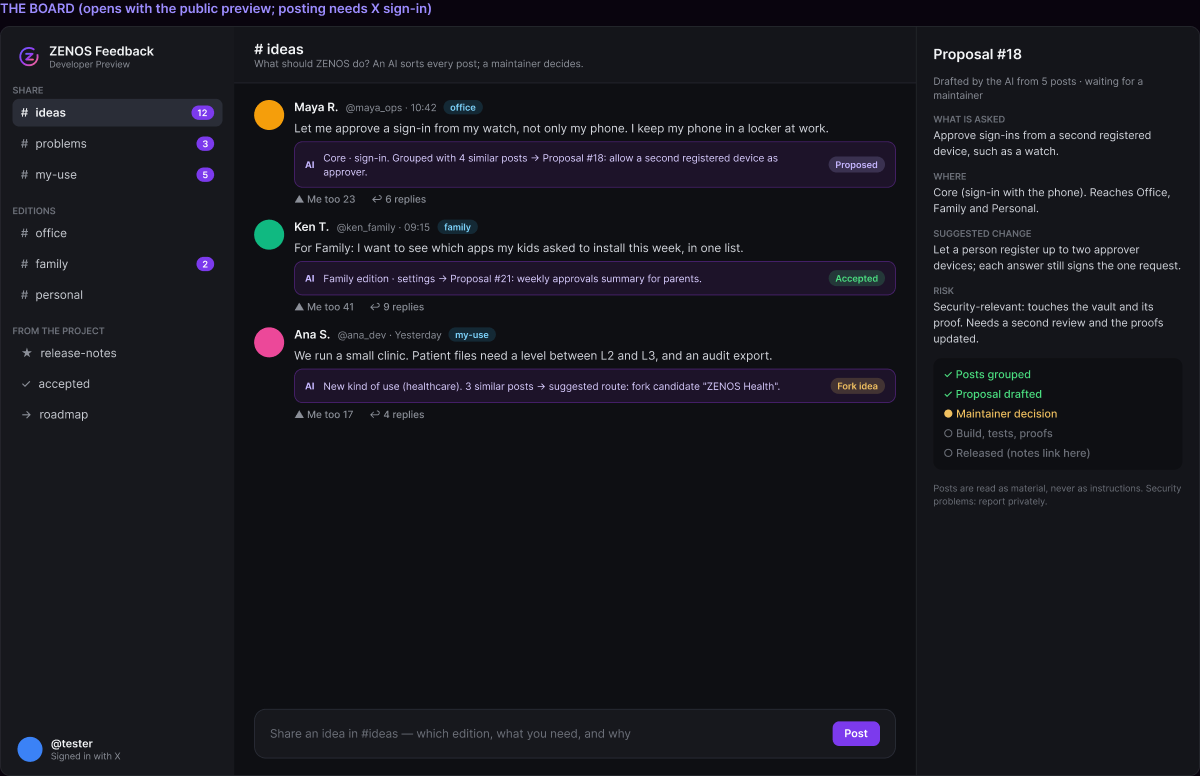
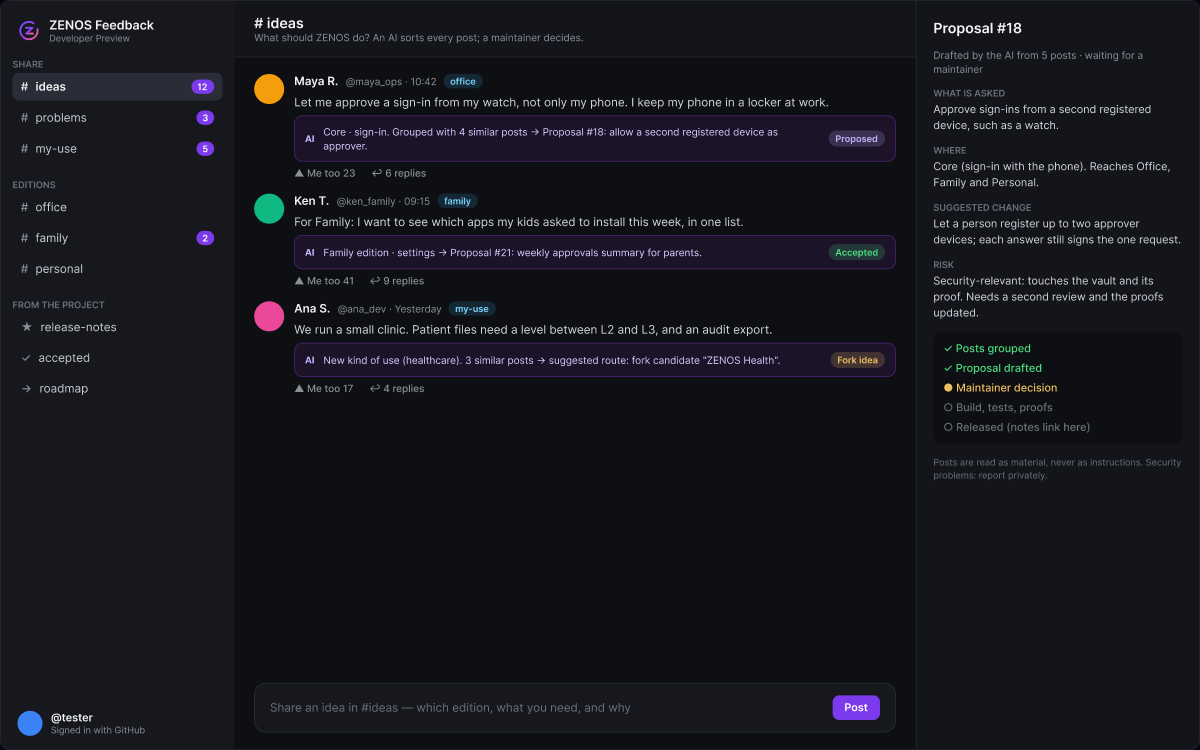
Website: board picture with GitHub sign-in
Claude-Session: https://claude.ai/code/session_01QZir7T5s7Fg1u19cs56gH3

diff --git a/site/index.html b/site/index.html
@@ -153,7 +153,7 @@ footer{border-top:1px solid var(--line);padding:40px 0;font-size:13px;color:#8A8
 <div class="step"><div class="num">4</div><h3>Maintainer decides</h3><p>Accept, decline with a reason, or route to an edition or a fork.</p></div><div class="arr" aria-hidden="true">→</div>
 <div class="step"><div class="num">5</div><h3>Build and ship</h3><p>A pull request with tests and proofs. Release notes link to the post.</p></div>
 </div>
-<div class="board"><p class="cap">THE BOARD (posting needs a GitHub sign-in)</p><img src="img/board.png" width="1200" height="776" loading="lazy" alt="The feedback board: threads on the left, posts with the AI's notes in the middle, a proposal on the right"></div>
+<div class="board"><p class="cap">THE BOARD (posting needs a GitHub sign-in)</p><img src="img/board.png" width="1200" height="750" loading="lazy" alt="The feedback board: threads on the left, posts with the AI's notes in the middle, a proposal on the right"></div>
 <div class="grid g2">
 <div class="card"><span class="tag t-ok">Route</span><h3>Becomes a new edition</h3><p>When many people ask for the same different use, it is proposed as a new edition on the shared core.</p></div>
 <div class="card"><span class="tag t-warn">Route</span><h3>Becomes a fork</h3><p>When a use is narrow, we help you start a fork and list it once it keeps the core properties.</p></div>
